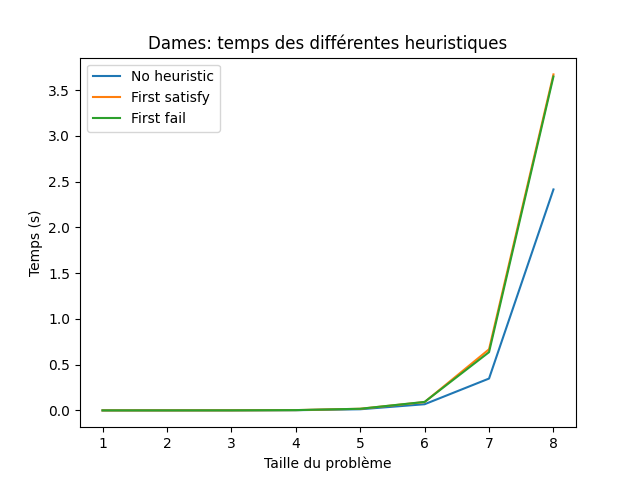
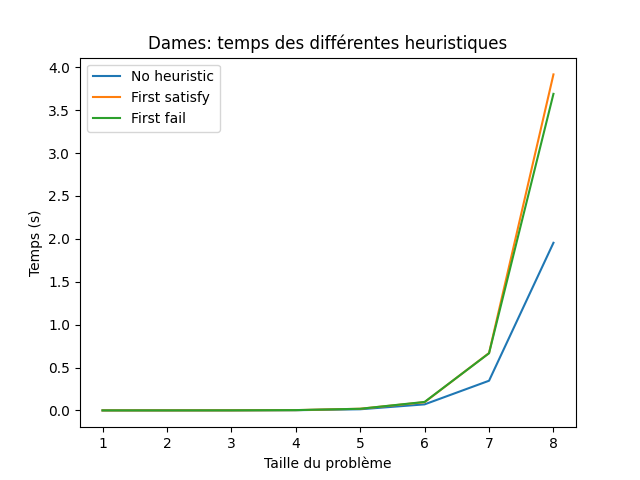
y

diff --git a/source/heuristics.py b/source/heuristics.py
@@ -41,50 +41,28 @@ def pure_literal(literal, literal_state, clause, clause_state):
     return "No pure literal"
 
 
-def first_satisfy(literal, literal_state, clause, clause_state):
+def freq(literal, literal_state, clause, clause_state):
     n = len(literal)
-    lit_occ = [[0, i] for i in range(n)]
+    lit_occ = [0 for i in range(n)]
 
     for i in range(len(clause)):
         if clause_state[i] == 0:
-
             for lit in clause[i]:
                 no_lit = conjugate_literal(lit)
                 if literal_state[lit] + literal_state[no_lit] == 0:
-                    lit_occ[lit][0] += 1
+                    lit_occ[lit] += 1
 
-    lit_occ.sort()
-    for j in range(n):
-        lit = lit_occ[n - j - 1][1]
+    return lit_occ
 
-        if literal_state[lit] == 0:
-            return lit
 
-    return "No first satisfy"
+def first_satisfy(literal, literal_state, clause, clause_state):
+    lit_occ = freq(literal, literal_state, clause, clause_state)
+    return lit_occ.index(max(lit_occ))
 
 
 def first_fail(literal, literal_state, clause, clause_state):
-    n = len(literal)
-    lit_occ = [[0, i] for i in range(n)]
-
-    for i in range(len(clause)):
-        if clause_state[i] == 0:
-
-            for lit in clause[i]:
-                no_lit = conjugate_literal(lit)
-
-                if literal_state[lit] + literal_state[no_lit] == 0:
-                    lit_occ[lit][0] += 1
-
-    lit_occ.sort()
-    for j in range(n):
-        lit = lit_occ[n - j - 1][1]
-        no_lit = conjugate_literal(lit)
-
-        if literal_state[no_lit] == 0:
-            return no_lit
-
-    return "No first fail"
+    lit = first_satisfy(literal, literal_state, clause, clause_state)
+    return conjugate_literal(lit)
 
 
 def no_heuristic(literal, literal_state, clause, clause_state):

diff --git a/source/iterative/dpll_iterative.py b/source/iterative/dpll_iterative.py
@@ -56,12 +56,13 @@ def dpll(literal, clause, heuristic, find_all_solutions=False):
 
 
 if __name__ == "__main__":
-    path_file = "../data/queens/5Q.txt"
+    path_file = "../data/queens_bis/4Q.txt"
     f = open(path_file, "r")
 
     literal, clause = load(f)
 
     d = time()
-    mod, nodes = dpll(literal, clause, first_fail, find_all_solutions=True)
+    mod, nodes = dpll(literal, clause, first_satisfy, find_all_solutions=True)
     print("time:", time() - d)
     print("nombre de modeles:", count_models(literal, mod))
+    print("nombre de noeuds:", nodes)
